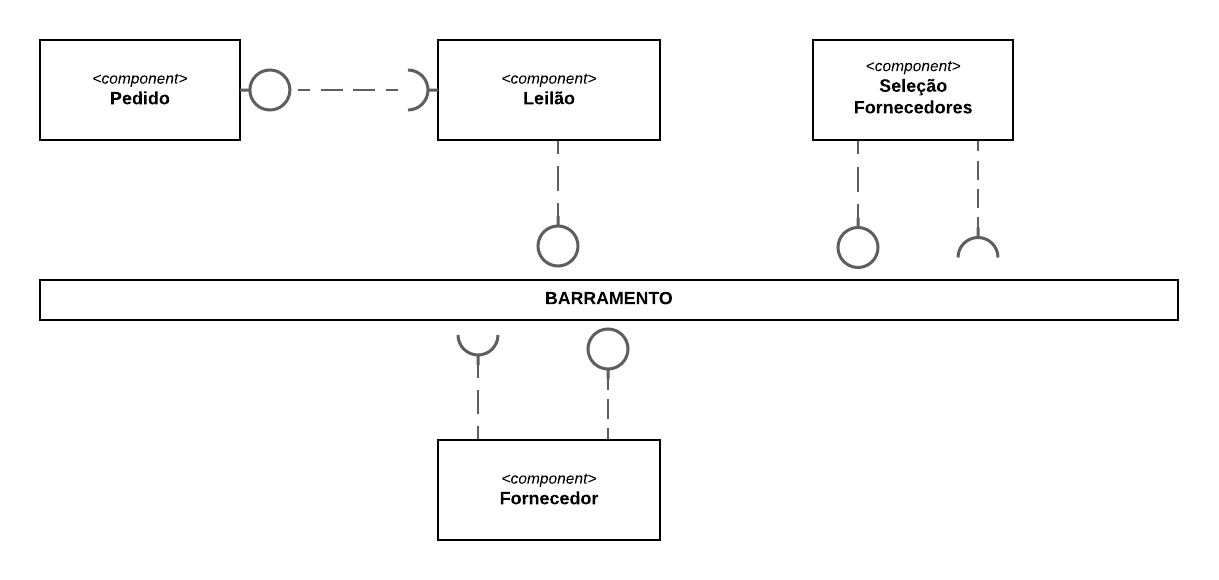
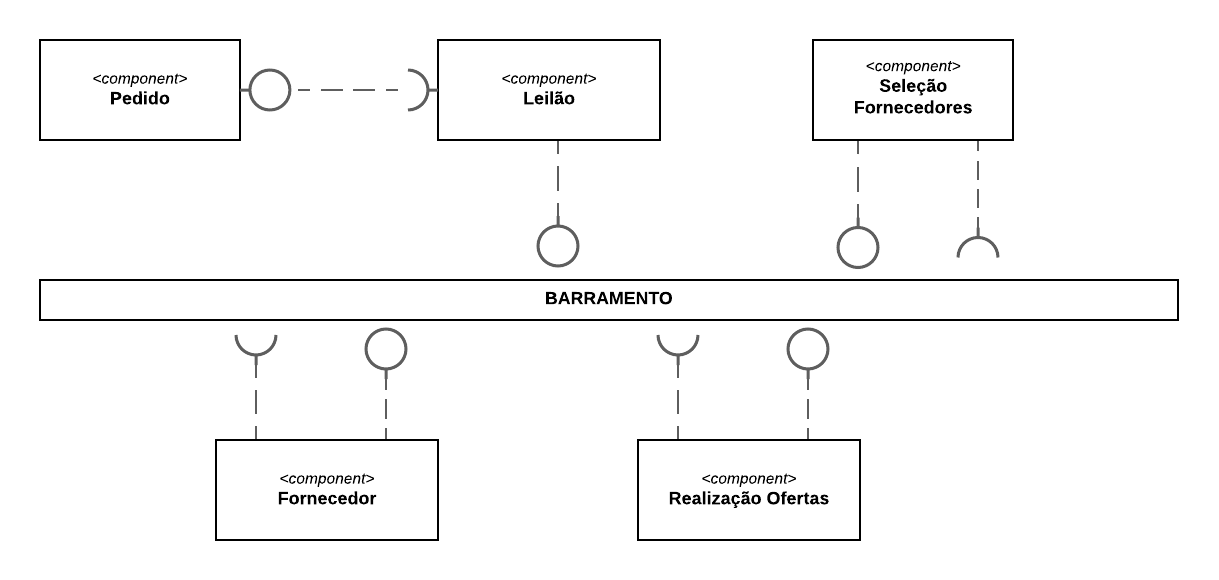
Tarefa 2

diff --git a/lab03/README.md b/lab03/README.md
@@ -3,3 +3,5 @@
 
 ## Tarefa 2
 ![Tarefa2](https://github.com/felipevboas/inf331/blob/master/lab03/images/tarefa2.png?raw=true)
+
+O componente "Pedido" é responsável por passar os dados do produto ao componente "Leilão" que posteriormente tratará de gerenciar as mensagens transmitidas aos outros componentes através do barramento. O componente "Seleciona Fornecedores" filtrará os fornecedores que vendem aquele produto. O "Realização ofertas" é o responsável por transmitir ao barramento os preços dos fornecedores previamente selecionados para o produto do leilão. Por fim, o componente "Forneceedor" armazena os dados dos 3 fornecedores com melhor preço, respeitando os critérios de desempate.
